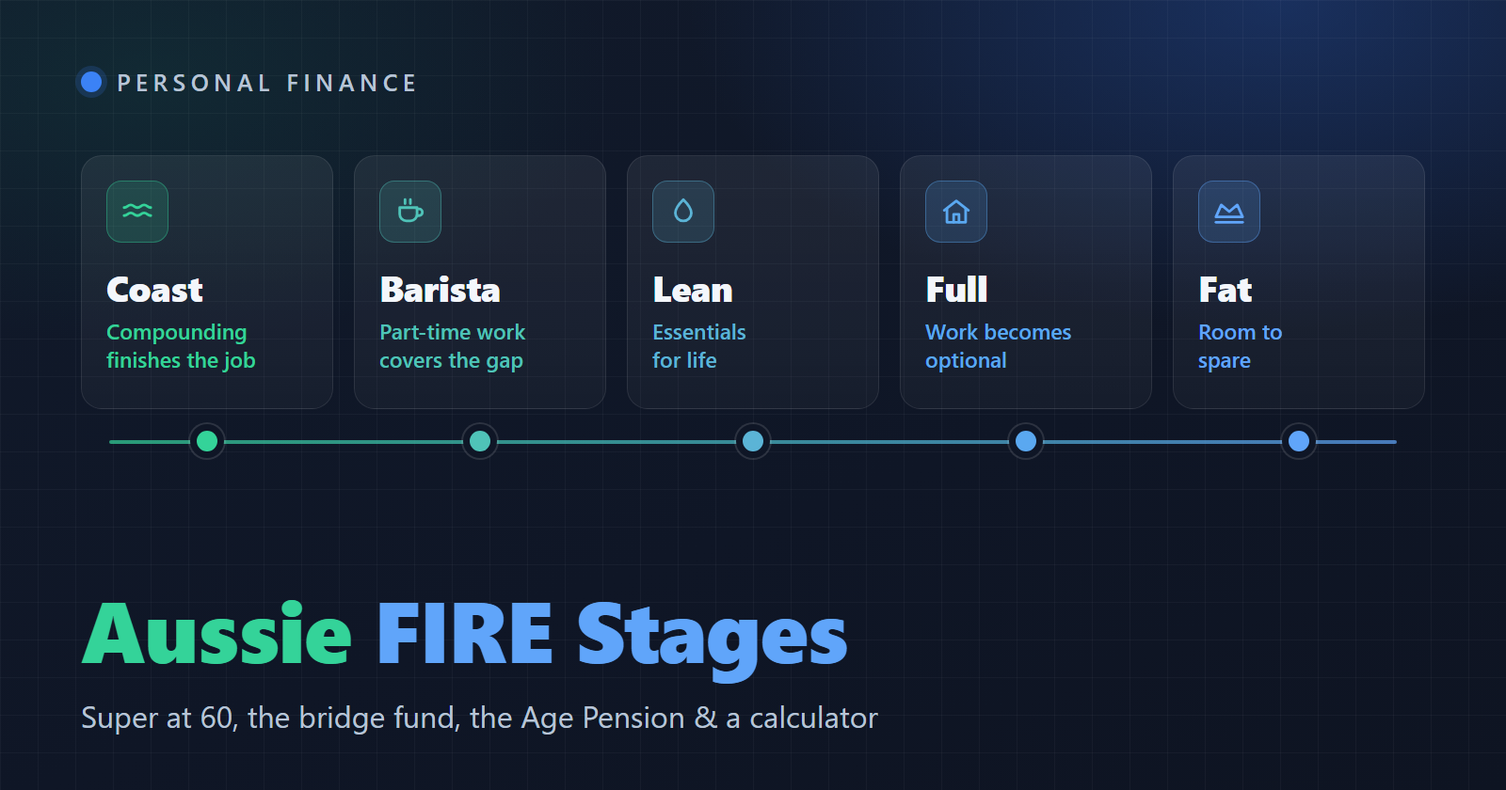
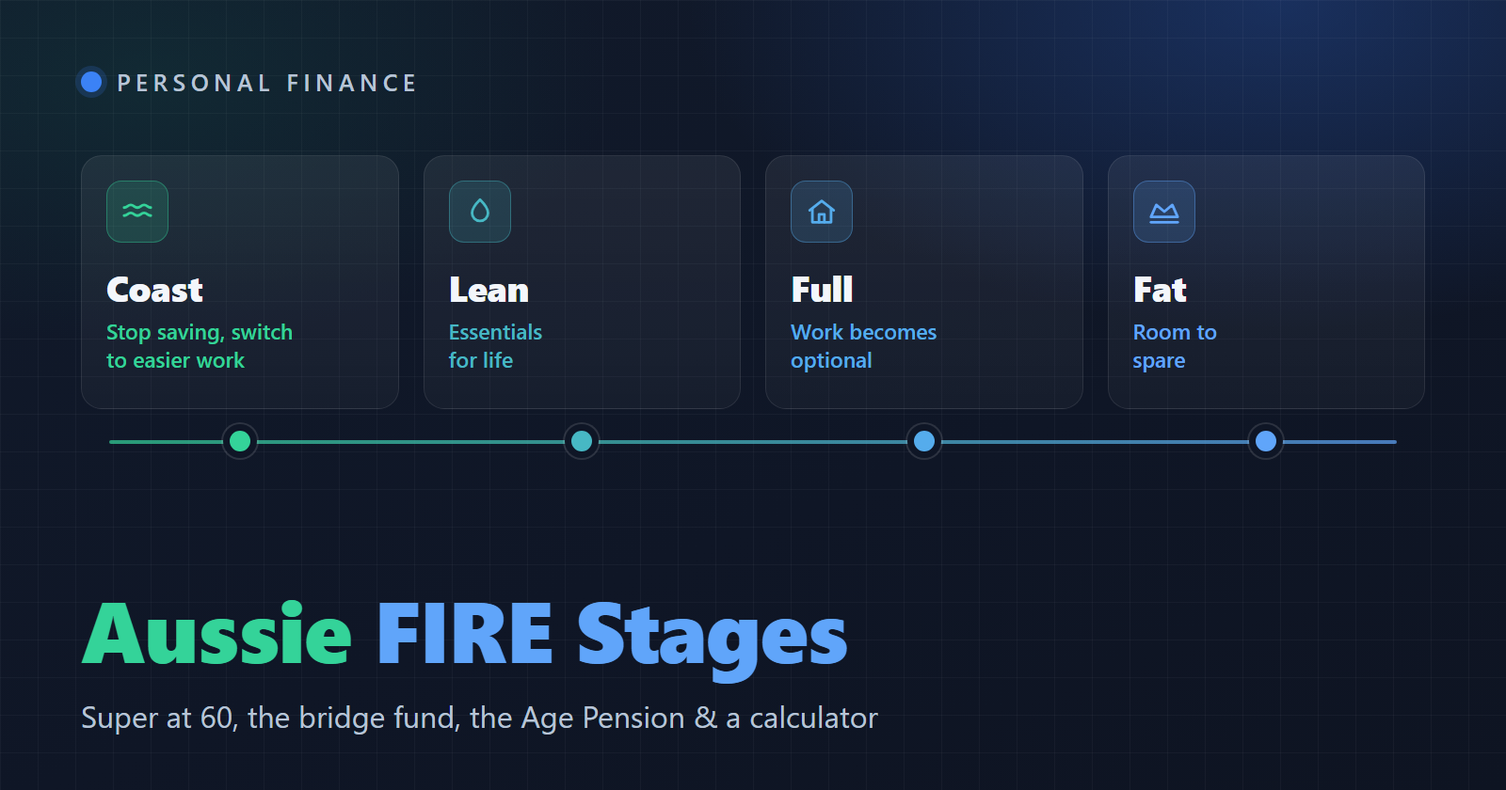
Simplify Aussie FIRE post: merge Barista into Coast, plainer wording
- Coast now means stop saving and switch to part-time or low-stress
  work paying your target spending after tax until full retirement.
  The job's gross pay is derived (grossForNet), so the barista and
  coast salary inputs are gone; "Coast target age" is now "Full
  retirement age".
- Spell out the Superannuation Guarantee instead of "SG".
- Shorter three-column stages table without the bridge row, plus a
  note that retiring before 60 is checked against money outside super.
- Cards show the total needed and the minimum outside super only;
  2x2 card grid.
- Defaults explained in a short note instead of a full section.
- Preview image updated to the four stages; storage key bumped to v2.

diff --git a/assets/js/fire-calculator.js b/assets/js/fire-calculator.js
@@ -34,6 +34,13 @@ function incomeTax(g) {
 }
 const netIncome = g => g - incomeTax(g);
 
+// Gross salary whose after-tax pay is `net` (inverse of netIncome, which rises with income)
+function grossForNet(net) {
+  let lo = 0, hi = 1e7;
+  for (let i = 0; i < 60; i++) { const m = (lo + hi) / 2; if (netIncome(m) >= net) hi = m; else lo = m; }
+  return hi;
+}
+
 function agePension(p, assets, earned) {
   const c = p.couple ? 'couple' : 'single', P = AU.pension, max = P.max[c];
   const byAssets = max - Math.max(0, assets - P.assetLower[c][p.home ? 'home' : 'rent']) / 1000 * P.assetTaperPerK;
@@ -131,20 +138,16 @@ function analyse(p) {
       classic: spend / p.swr
     };
   }
-  // Barista: leave full-time now, part-time income until baristaUntil
-  const bo = { ...base, spend: p.spendFull, retireAge: now, contribUntil: now, barista: p.barista, baristaUntil: p.baristaUntil };
-  res.barista = {
-    req: required(p, bo), status: sim(p, bo),
-    earliest: earliest(p, R => ({ ...bo, retireAge: R, contribUntil: R })),
-    net: netIncome(p.barista)
-  };
-  // Coast: stop voluntary saving now, keep working (SG only if toggled) until coastAge, then full spend
-  const co = { ...base, spend: p.spendFull, retireAge: Math.max(now, p.coastAge), contribUntil: now, coastSalary: p.coastSalary };
+  // Coast: stop saving and switch to a part-time or low-stress job whose after-tax pay covers the target
+  // lifestyle until full retirement at coastAge. Its employer super contributions keep flowing to super.
+  const coastSalary = grossForNet(p.spendFull);
+  const co = { ...base, spend: p.spendFull, retireAge: Math.max(now, p.coastAge), contribUntil: now, coastSalary };
   res.coast = {
     req: required(p, co), status: sim(p, co),
-    earliest: earliest(p, X => ({ ...co, contribUntil: X }))
+    earliest: earliest(p, X => ({ ...co, contribUntil: X })),
+    salary: coastSalary
   };
-  for (const k of ['coast', 'barista', 'lean', 'full', 'fat']) res[k].at = res[k].earliest == null ? null : balanceAt(p, res[k].earliest);
+  for (const k of ['coast', 'lean', 'full', 'fat']) res[k].at = res[k].earliest == null ? null : balanceAt(p, res[k].earliest);
   // Path for chart: save until earliest Full FIRE age (or coastAge if none)
   const R = res.full.earliest ?? p.coastAge;
   res.path = sim(p, { ...base, spend: p.spendFull, retireAge: R, contribUntil: R, trace: true });
@@ -166,7 +169,7 @@ function analyse(p) {
 }
 
 if (typeof module !== 'undefined' && module.exports) {
-  module.exports = { AU, incomeTax, netIncome, agePension, contribs, sim, bridgeAt, required, balanceAt, earliest, analyse };
+  module.exports = { AU, incomeTax, netIncome, grossForNet, agePension, contribs, sim, bridgeAt, required, balanceAt, earliest, analyse };
 }
 if (typeof document === 'undefined' || !document.getElementById('fire-calc')) return;
 
@@ -184,7 +187,6 @@ function read() {
     couple, home: $('home').checked, age: Math.round(v('age')), coastAge: Math.round(v('coastAge')), planAge: Math.round(v('planAge')),
     O: v('O'), S: v('S'), salary: v('salary'), salSac: v('salSac') * mult(), saveOutside: v('saveOutside') * mult(),
     spendLean: v('spendLean') * mult(), spendFull: v('spendFull') * mult(), spendFat: v('spendFat') * mult(),
-    barista: v('barista'), baristaUntil: Math.round(v('baristaUntil')), coastSalary: v('coastSalary'),
     rOut: v('rOut')/100, rSuper: v('rSuper')/100, swr: Math.max(0.005, v('swr')/100), pensionOn: $('pensionOn').checked
   };
 }
@@ -197,12 +199,13 @@ function card(name, what, r, p) {
   else { pill = `<span class="pill warn">In ${yrs} yr${yrs > 1 ? 's' : ''}</span>`; head = `Age ${e}`; sub = `${yrs} year${yrs > 1 ? 's' : ''} from now`; }
   const at = r.at;
   const saved = at ? `<div class="meta"><span>You'll have saved</span><b>${fmt(at.total)}</b></div>
-    <div class="split"><span><i style="background:var(--fc-out)"></i>${fmtK(at.O)} outside</span><span><i style="background:var(--fc-super)"></i>${fmtK(at.S)} super</span></div>` : '';
+    __OUTSIDE_SAVED__` : '';
   const need = r.req.total, have = p.O + p.S;
+  const outsideRow = (label, v) => v > 0.5 ? `<div class="split"><span><i style="background:var(--fc-out)"></i>${label} ${fmt(v)} outside super</span></div>` : '';
   const gap = isFinite(need) ? Math.max(0, need - have) : Infinity;
   const needRow = `<div class="needbox">
     <div class="meta"><span>Needed to do it today</span><b>${fmt(need)}</b></div>
-    ${isFinite(need) ? `<div class="split"><span><i style="background:var(--fc-out)"></i>${fmtK(r.req.outside)} outside</span><span><i style="background:var(--fc-super)"></i>${fmtK(r.req.superAmt)} super</span></div>` : ''}
+    ${isFinite(need) ? outsideRow('at least', r.req.outside) : ''}
     <div class="meta muted"><span>${gap > 0 ? 'Short by' : 'Surplus'}</span><b>${isFinite(gap) ? fmt(gap > 0 ? gap : have - need) : '—'}</b></div>
   </div>`;
   return `<article class="card">
@@ -210,12 +213,12 @@ function card(name, what, r, p) {
     <p class="what">${what}</p>
     <div><div class="big">${head}</div><div class="split">${sub}</div></div>
     ${needRow}
-    ${saved}
+    ${saved.replace('__OUTSIDE_SAVED__', at ? outsideRow('incl.', at.O) : '')}
   </article>`;
 }
 
 function timeline(res, p) {
-  const stages = [['Coast', res.coast], ['Barista', res.barista], ['Lean', res.lean], ['Full', res.full], ['Fat', res.fat]];
+  const stages = [['Coast', res.coast], ['Lean', res.lean], ['Full', res.full], ['Fat', res.fat]];
   const a0 = p.age, a1 = Math.max(a0 + 10, ...stages.map(([, r]) => r.earliest ?? 0)) + 2;
   const W = 760, H = 106, L = 16, R = 16, y0 = 72;
   const x = a => L + (a - a0) / (a1 - a0) * (W - L - R);
@@ -267,7 +270,7 @@ function kpis(res, p) {
     ['Classic FI number', fmt(res.full.classic), `Target spend ÷ ${(p.swr*100).toFixed(1)}% SWR, ignoring super rules and the pension`],
     ['Age Pension at 67', p.pensionOn ? fmt(res.pensionAt67) + ' /yr' : 'Off', p.pensionOn ? `On the Full FIRE path; ${Math.round(res.pensionAt67 / p.spendFull * 100)}% of target spend` : 'Turn on to include it'],
     ['Pension saves you', p.pensionOn ? fmt(res.pensionOffset) : '—', 'Reduction in Full FIRE number because the pension takes over part of spending'],
-    ['Savings rate', Math.round(res.savingsRate * 100) + '%', 'Outside investing plus SG and salary sacrifice, as a share of gross salary'],
+    ['Savings rate', Math.round(res.savingsRate * 100) + '%', 'Outside investing plus employer super contributions and salary sacrifice, as a share of gross salary'],
     ['Concessional cap used', fmt(c.raw) + ' of ' + fmt(c.cap), c.raw > c.cap ? 'Over the cap: the excess is taxed at your marginal rate' : 'Unused cap can be carried forward 5 years if super is under $500k', c.raw > c.cap],
     ['Peak super per person', fmt(res.peakSuperPP), res.peakSuperPP > AU.div296 ? 'Over $3M: Division 296 adds 15% tax on earnings above it' : res.peakSuperPP > AU.tbc ? 'Over the $2.1M transfer balance cap: the excess stays in taxed accumulation' : 'Within the $2.1M tax-free pension cap', res.peakSuperPP > AU.tbc],
   ];
@@ -282,8 +285,7 @@ function render() {
   const perMo = n => '$' + Math.round(n / 12).toLocaleString('en-AU') + ' a month';
   $('standSub').textContent = `If you keep investing ${perMo(p.saveOutside)} outside super, plus ${perMo(res.contribs.total)} going into super from your salary, this is when you reach each stage and what you'll have saved by then. Each stage is worked out on its own. You have ${fmt(have)} today.`;
   $('cards').innerHTML = [
-    card('Coast FIRE', `Stop investing, keep a ${fmtK(p.coastSalary)} job to pay the bills until ${p.coastAge}, then live on ${sp(p.spendFull)}.`, res.coast, p),
-    card('Barista FIRE', `Switch to a ${fmtK(p.barista)} part-time job until ${p.baristaUntil} and live on ${sp(p.spendFull)}.`, res.barista, p),
+    card('Coast FIRE', `Stop investing and switch to a part-time or low-stress job paying ${sp(p.spendFull)} after tax (about ${fmtK(res.coast.salary)} a year before tax) until you retire at ${p.coastAge}.`, res.coast, p),
     card('Lean FIRE', `Stop work and live on ${sp(p.spendLean)} for life.`, res.lean, p),
     card('Full FIRE', `Stop work and live on ${sp(p.spendFull)} for life.`, res.full, p),
     card('Fat FIRE', `Stop work and live on ${sp(p.spendFat)} for life.`, res.fat, p),
@@ -314,7 +316,7 @@ function showCouple(c) {
 
 // Remember the visitor's numbers in their own browser. Saved only after they change something,
 // so untouched visitors always get the current defaults. Bump the key if the inputs change meaning.
-const STORE = 'aussie-fire-calc-v1';
+const STORE = 'aussie-fire-calc-v2';
 const inputs = () => document.querySelectorAll('.fire-calc input');
 function save() {
   try {

diff --git a/assets/css/fire-calculator.css b/assets/css/fire-calculator.css
@@ -43,7 +43,8 @@
 .fire-calc .fc-results { border-top: 1px solid var(--global-divider-color); margin-top: 0.4rem; padding-top: 1.2rem; display: grid; gap: 1.6rem; }
 .fire-calc .fc-results > * { min-width: 0; }
 .fire-calc .fc-sub { font-size: 0.85rem; color: var(--global-text-color-light); margin: 0 0 0.8rem; }
-.fire-calc .fc-cards { display: grid; grid-template-columns: repeat(auto-fit, minmax(200px, 1fr)); gap: 0.9rem; }
+.fire-calc .fc-cards { display: grid; grid-template-columns: repeat(2, minmax(0, 1fr)); gap: 0.9rem; }
+@media (max-width: 576px) { .fire-calc .fc-cards { grid-template-columns: minmax(0, 1fr); } }
 .fire-calc .card { border-radius: 10px; padding: 0.9rem 1rem; border: 1px solid var(--global-divider-color); background: transparent; box-shadow: none; display: flex; flex-direction: column; gap: 0.45rem; }
 .fire-calc .card h3 { margin: 0; font-size: 1rem; font-weight: 700; display: flex; justify-content: space-between; align-items: center; gap: 0.5rem; }
 .fire-calc .card .what { font-size: 0.78rem; color: var(--global-text-color-light); margin: 0; }
@@ -70,7 +71,7 @@
 
 /* Stages table in the post body, styled like the offset vs ETF pros/cons table */
 .fc-tbl { overflow-x: auto; margin: 0.5rem 0 0.6rem; }
-.fc-pc, .fc-pc.table-dark { width: 100%; min-width: 560px; border-collapse: collapse; margin: 0; font-size: 0.92rem; background: transparent; color: inherit; }
+.fc-pc, .fc-pc.table-dark { width: 100%; border-collapse: collapse; margin: 0; font-size: 0.92rem; background: transparent; color: inherit; }
 .fc-pc th, .fc-pc td { padding: 0.45rem 0.7rem; border: 1px solid var(--global-divider-color); text-align: left; vertical-align: top; }
 .fc-pc th { font-weight: 700; }
 .fc-pc td:first-child { font-weight: 600; white-space: nowrap; }

diff --git a/_posts/2026-10-04-aussie-fire-stages-calculator.md b/_posts/2026-10-04-aussie-fire-stages-calculator.md
@@ -1,8 +1,8 @@
 ---
 layout: post
-title: "Aussie FIRE Stages: When Can You Coast, Barista, Lean, Full or Fat FIRE in Australia? (+ Calculator)"
+title: "Aussie FIRE Stages: When Can You Coast, Lean, Full or Fat FIRE in Australia? (+ Calculator)"
 date: 2026-10-04
-description: An Australian FIRE calculator for Coast, Barista, Lean, Full and Fat FIRE that models super preservation at 60, a bridge fund outside super, 12% SG, contribution caps and the Age Pension from 67.
+description: An Australian FIRE calculator for Coast, Lean, Full and Fat FIRE that models super preservation at 60, a bridge fund outside super, employer super contributions, contribution caps and the Age Pension from 67.
 tags: finance investing fire superannuation retirement
 categories:
   - personal finance
@@ -16,7 +16,7 @@ published: true
 
 <div class="row mt-3">
     <div class="col-sm mt-3 mt-md-0">
-        {% include figure.html path="assets/images/2026-10-04-aussie-fire-stages-calculator/2026-10-04-aussie-fire-stages-calculator.png" class="img-fluid rounded z-depth-1 mx-auto d-block" alt="Aussie FIRE Stages: Coast, Barista, Lean, Full and Fat FIRE on a timeline" zoomable=true %}
+        {% include figure.html path="assets/images/2026-10-04-aussie-fire-stages-calculator/2026-10-04-aussie-fire-stages-calculator.png" class="img-fluid rounded z-depth-1 mx-auto d-block" alt="Aussie FIRE Stages: Coast, Lean, Full and Fat FIRE on a timeline" zoomable=true %}
     </div>
 </div>
 
@@ -24,7 +24,7 @@ Most FIRE calculators assume one pot of money that you can draw from whenever yo
 
 > **Just want to crunch your own numbers?** [Skip straight to the interactive calculator ↓](#fire-calc)
 
-This post explains the five FIRE stages with an Australian lens, then gives you a calculator that works out when you reach each one: super preservation at 60, a bridge fund to get you there, 12% Superannuation Guarantee, the concessional cap, 2026-27 income tax, and the Age Pension from 67 using the September 2026 rates. Every figure is in today's dollars.
+This post explains the four FIRE stages with an Australian lens, then gives you a calculator that works out when you reach each one: super preservation at 60, a bridge fund to get you there, the 12% Superannuation Guarantee (the super your employer pays on top of your salary), the concessional cap, 2026-27 income tax, and the Age Pension from 67 using the September 2026 rates. Every figure is in today's dollars.
 
 <p style="font-size:0.8rem;color:var(--global-text-color-light);line-height:1.5;"><em>Not financial advice.</em> This is general information only. It ignores your personal circumstances, and tax, super and Age Pension rules change over time. Talk to a licensed adviser before acting.</p>
 
@@ -32,24 +32,22 @@ This post explains the five FIRE stages with an Australian lens, then gives you 
 
 <div class="fc-tbl">
 <table class="fc-pc">
-<thead><tr><th>Stage</th><th>What it means</th><th>Australian twist</th><th>Next step</th></tr></thead>
+<thead><tr><th>Stage</th><th>What it means</th><th>What you do</th></tr></thead>
 <tbody>
-<tr><td>Coast FIRE</td><td>Your existing nest egg grows to your target by compounding alone.</td><td>SG keeps adding 12% of any wage to super, so a lower-paid coast job still tops you up. Super can't be touched until 60.</td><td>Stop voluntary saving. Work only to cover today's bills.</td></tr>
-<tr><td>Barista FIRE</td><td>Your portfolio funds part of your life now; part-time pay covers the rest.</td><td>Your outside-super money must cover the gap until 60. The Work Bonus lets you earn $300 a fortnight each after 67 without cutting the pension.</td><td>Move to part-time or low-stress work.</td></tr>
-<tr><td>Lean FIRE</td><td>Full FIRE on a bare-bones budget.</td><td>Smaller balances keep more Age Pension, which cushions a lean plan from 67.</td><td>Retire early if you are happy living on essentials.</td></tr>
-<tr><td>Full FIRE</td><td>Your portfolio fully funds your lifestyle for life.</td><td>Needs two buckets: a bridge outside super to 60, then super, which is tax-free to draw from 60 within the $2.1M transfer balance cap per person.</td><td>Retire if you choose. Work becomes optional.</td></tr>
-<tr><td>Fat FIRE</td><td>Full FIRE with a generous budget and buffer.</td><td>Large balances may pass the $3M Division 296 threshold, where extra tax applies to super earnings.</td><td>Retire with room for travel, help for family and surprises.</td></tr>
-<tr class="au"><td>Bridge milestone</td><td>Enough outside super to live on until preservation age.</td><td>Unique to Australia. Without it you are stuck working even if your total is large.</td><td>Direct new savings outside super until the bridge is covered.</td></tr>
+<tr><td>Coast FIRE</td><td>You've saved enough that it will grow into your retirement fund on its own.</td><td>Stop saving. Switch to part-time or low-stress work that just pays your living costs, then retire fully later.</td></tr>
+<tr><td>Lean FIRE</td><td>You can stop work for good on a bare-bones budget.</td><td>Retire early, living on essentials only.</td></tr>
+<tr><td>Full FIRE</td><td>You can stop work for good and keep your normal lifestyle.</td><td>Retire if you choose. Work becomes optional.</td></tr>
+<tr><td>Fat FIRE</td><td>You can stop work for good with a generous budget.</td><td>Retire with room for travel, family and surprises.</td></tr>
 </tbody>
 </table>
 </div>
 
-<p class="fc-pc-note">Shaded row = the milestone generic FIRE calculators miss. Other labels you will see: Chubby FIRE (between Full and Fat) and Flamingo FIRE (reach roughly half your number, then go Barista and let it compound). Both are covered by changing the spending and part-time inputs below.</p>
+<p class="fc-pc-note">Retiring before 60? Super stays locked until then, so the calculator also checks that your money outside super is enough to fund your lifestyle until super kicks in.</p>
 
 ## Why Australia needs its own FIRE maths
 
 - **Super is locked until 60.** Retire at 45 and you need 15 years of spending sitting *outside* super. That bridge fund, not your total net worth, is usually what decides how early you can stop.
-- **Super keeps growing while you coast.** Any job pays 12% SG on top of your wage, so even a lower-paid coast or barista job keeps topping up super.
+- **Super keeps growing while you coast.** Your employer pays 12% of your wage into super on top of your pay (the Superannuation Guarantee), so even a part-time or low-stress job keeps topping up super.
 - **Contributions are taxed and capped.** Concessional contributions are taxed at 15% going in and capped at $32,500 a year per person.
 - **The Age Pension shrinks what you need.** From 67 a means-tested pension covers part of your spending, so your FIRE number can be well below the classic "spend ÷ 4%" figure.
 
@@ -59,7 +57,7 @@ Plug in your own numbers. It runs a year-by-year simulation in real dollars and,
 
 <div class="fire-calc" id="fire-calc">
 <h4>Aussie FIRE Stages calculator</h4>
-<p class="fc-intro">The starting values are example figures for an average Australian couple in their mid-30s (<a href="#where-the-default-numbers-come-from">where they come from</a>). Replace them with your own. Your numbers are saved in this browser for next time.</p>
+<p class="fc-intro">The starting values are example figures for an average Australian couple in their mid-30s (<a href="#fc-defaults">where they come from</a>). Replace them with your own. Your numbers are saved in this browser for next time.</p>
 <p class="fc-intro"><button type="button" id="fcReset" class="fc-reset">Reset to averages</button></p>
 
 <fieldset><legend>Household</legend>
@@ -75,7 +73,7 @@ Plug in your own numbers. It runs a year-by-year simulation in real dollars and,
 <fieldset><legend>Ages</legend>
   <div class="fc-grid">
     <div class="fc-field"><label for="age">Current age</label><input type="number" id="age" value="35" min="18" max="75"></div>
-    <div class="fc-field"><label for="coastAge">Coast target age</label><input type="number" id="coastAge" value="60" min="40" max="75"><small class="fc-hint">When you stop work entirely if coasting</small></div>
+    <div class="fc-field"><label for="coastAge">Full retirement age</label><input type="number" id="coastAge" value="60" min="40" max="75"><small class="fc-hint">When you stop work completely if you coast</small></div>
     <div class="fc-field"><label for="planAge">Plan to age</label><input type="number" id="planAge" value="92" min="70" max="105"><small class="fc-hint">Money must last until</small></div>
   </div>
 </fieldset>
@@ -96,7 +94,7 @@ Plug in your own numbers. It runs a year-by-year simulation in real dollars and,
 
 <fieldset><legend>Saving while working full-time</legend>
   <div class="fc-grid">
-    <div class="fc-field"><label for="salary">Gross salary ($ per year)</label><input type="number" id="salary" value="216700" step="5000"><small class="fc-hint">Household; drives 12% SG</small></div>
+    <div class="fc-field"><label for="salary">Gross salary ($ per year)</label><input type="number" id="salary" value="216700" step="5000"><small class="fc-hint">Household; your employer adds 12% super on top</small></div>
     <div class="fc-field"><label for="salSac">Salary sacrifice ($)</label><input type="number" id="salSac" class="flow" value="0" step="100"><small class="fc-hint">Extra concessional, <span class="per">per month</span></small></div>
     <div class="fc-field"><label for="saveOutside">Invest outside super ($)</label><input type="number" id="saveOutside" class="flow" value="900" step="100"><small class="fc-hint">After tax, <span class="per">per month</span></small></div>
   </div>
@@ -107,14 +105,6 @@ Plug in your own numbers. It runs a year-by-year simulation in real dollars and,
     <div class="fc-field"><label for="spendLean">Lean ($)</label><input type="number" id="spendLean" class="flow" value="4391" step="100"><small class="fc-hint">Bare essentials</small></div>
     <div class="fc-field"><label for="spendFull">Target ($)</label><input type="number" id="spendFull" class="flow" value="6583" step="100"><small class="fc-hint">Your normal lifestyle</small></div>
     <div class="fc-field"><label for="spendFat">Fat ($)</label><input type="number" id="spendFat" class="flow" value="9875" step="100"><small class="fc-hint">Travel, upgrades, buffer</small></div>
-  </div>
-</fieldset>
-
-<fieldset><legend>Part-time and coast work</legend>
-  <div class="fc-grid">
-    <div class="fc-field"><label for="barista">Barista job, gross ($ per year)</label><input type="number" id="barista" value="54200" step="1000"><small class="fc-hint">Taxed at 2026-27 rates</small></div>
-    <div class="fc-field"><label for="baristaUntil">Barista until age</label><input type="number" id="baristaUntil" value="60" min="30" max="75"></div>
-    <div class="fc-field"><label for="coastSalary">Coast job salary ($ per year)</label><input type="number" id="coastSalary" value="108400" step="5000"><small class="fc-hint">Its SG keeps flowing to super</small></div>
   </div>
 </fieldset>
 
@@ -145,39 +135,18 @@ Plug in your own numbers. It runs a year-by-year simulation in real dollars and,
   </section>
 
   <section>
-    <h5>Australian numbers the three stages miss</h5>
+    <h5>Australian numbers the stages miss</h5>
     <p class="fc-sub">These decide whether an early retirement in Australia actually works.</p>
     <div class="fc-kpis" id="kpis"></div>
   </section>
 
-  <p class="fc-note"><b>Assumptions &amp; simplifications:</b> A year-by-year simulation in real dollars. Before 60 spending comes only from outside super. From 60 it draws outside money first, then super. From 67 the Age Pension is estimated with the lower of the assets and income tests, using deeming on your balances. "Needed today" is the smallest outside amount that funds the bridge plus the smallest super balance that funds the rest. Rules used: SG 12%; concessional cap $32,500, non-concessional $130,000, transfer balance cap $2.1M (from 1 July 2026); Age Pension max $1,237.70 single / $1,866.00 couple per fortnight; full-pension asset thresholds $333k/$499k homeowner, $600k/$766k non-homeowner; deeming 1.75% / 3.75%; taper $3 per fortnight per $1,000 (from 20 September 2026); 2026-27 resident income tax with LITO and Medicare levy, approximate. Returns are smooth, so leave a margin for bad sequences. This is an illustration, not a forecast.</p>
+  <p class="fc-note"><b>Assumptions &amp; simplifications:</b> A year-by-year simulation in real dollars. Before 60 spending comes only from outside super. From 60 it draws outside money first, then super. From 67 the Age Pension is estimated with the lower of the assets and income tests, using deeming on your balances. "Needed today" is the smallest outside amount that funds the bridge plus the smallest super balance that funds the rest. Coast assumes the part-time or low-stress job pays your target spending after tax and stops at your full retirement age. Rules used: Superannuation Guarantee (employer super) 12%; concessional cap $32,500, non-concessional $130,000, transfer balance cap $2.1M (from 1 July 2026); Age Pension max $1,237.70 single / $1,866.00 couple per fortnight; full-pension asset thresholds $333k/$499k homeowner, $600k/$766k non-homeowner; deeming 1.75% / 3.75%; taper $3 per fortnight per $1,000 (from 20 September 2026); 2026-27 resident income tax with LITO and Medicare levy, approximate. Returns are smooth, so leave a margin for bad sequences. This is an illustration, not a forecast.</p>
 </div>
 </div>
 
 <script src="{{ '/assets/js/fire-calculator.js' | relative_url | bust_file_cache }}"></script>
 
-## Where the default numbers come from
-
-The calculator starts with an average Australian household: a couple aged 35, both working full-time, who own their home. Ages, returns and the withdrawal rate are assumptions, not averages, so set them to suit you.
-
-<div class="fc-tbl">
-<table class="fc-pc">
-<thead><tr><th>Input</th><th>Default</th><th>Based on</th></tr></thead>
-<tbody>
-<tr><td>Gross salary</td><td>$216,700 a year</td><td>Two full-time adults on average weekly ordinary time earnings of $2,083.70 (ABS, May 2026), about $108,400 each.</td></tr>
-<tr><td>Super</td><td>$172,000</td><td>Average balances at 35–39: $96,122 for men plus $76,020 for women (ASFA).</td></tr>
-<tr><td>Outside super</td><td>$45,000</td><td>Middle of the $30,000–$60,000 median for cash and shares outside super at 35–44. This is the roughest estimate here.</td></tr>
-<tr><td>Invest outside super</td><td>$900 a month</td><td>The household saving ratio of 6.5% (ABS, June quarter 2026) applied to the couple's after-tax pay of about $166,300.</td></tr>
-<tr><td>Lean spending</td><td>$4,391 a month</td><td>ASFA Retirement Standard, modest couple: $52,690 a year (June 2026).</td></tr>
-<tr><td>Target spending</td><td>$6,583 a month</td><td>ASFA Retirement Standard, comfortable couple: $78,998 a year (June 2026).</td></tr>
-<tr><td>Fat spending</td><td>$9,875 a month</td><td>1.5 times the ASFA comfortable budget. There is no official "fat" standard.</td></tr>
-<tr><td>Barista job</td><td>$54,200 a year</td><td>Half of one average full-time wage, i.e. part-time work at average pay.</td></tr>
-<tr><td>Coast job salary</td><td>$108,400 a year</td><td>One average full-time wage.</td></tr>
-</tbody>
-</table>
-</div>
-
-<p class="fc-pc-note">Averages are pulled up by high earners and big balances, so the typical (median) household has less super and savings than this. ASFA budgets assume homeowners aged 65–84 with no mortgage or rent.</p>
+<p class="fc-pc-note" id="fc-defaults"><b>Where the default numbers come from:</b> an average Australian couple aged 35 who own their home. Salary is two average full-time wages (ABS, May 2026), super is the average balance at 35–39 (ASFA), savings outside super are a rough median, monthly investing is the 6.5% household saving rate (ABS), and Lean and Target spending are the ASFA modest and comfortable retirement budgets (Fat is 1.5 times comfortable). Averages are pulled up by high earners, so a typical household has less.</p>
 
 ## Sources
 
